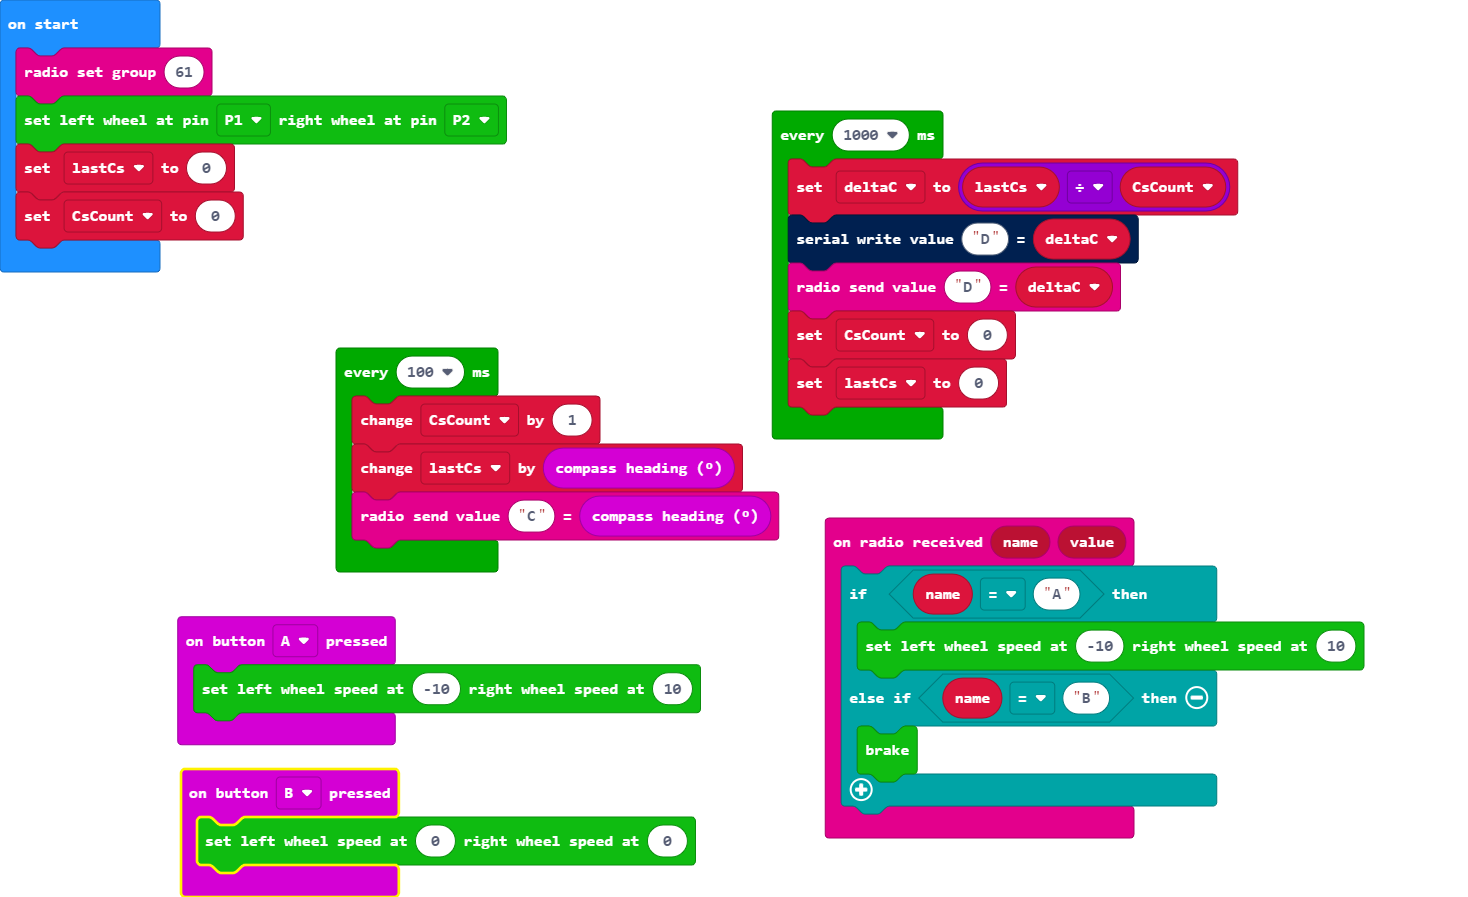
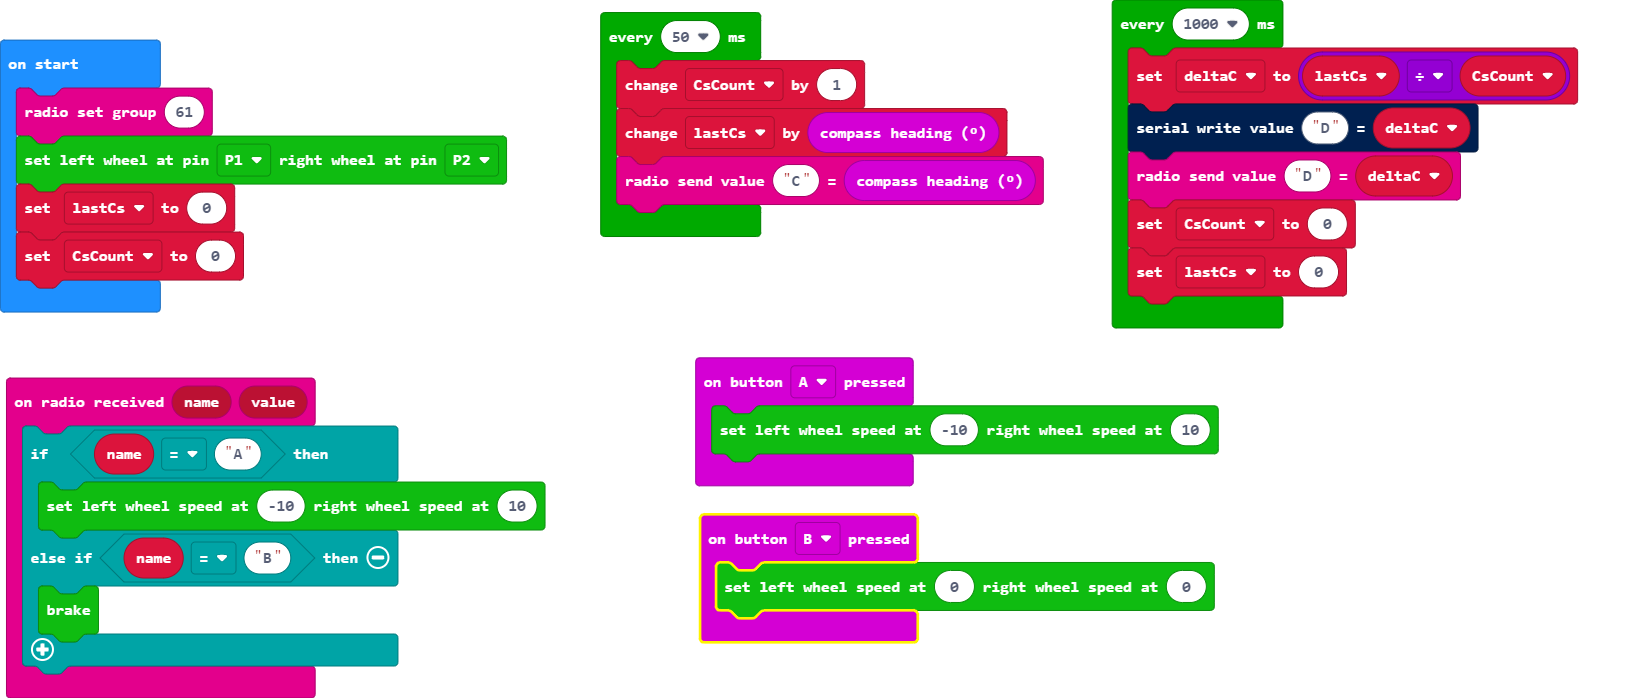
Compas Receiver v0.1

diff --git a/main.ts b/main.ts
@@ -23,7 +23,7 @@ loops.everyInterval(1000, function () {
     CsCount = 0
     lastCs = 0
 })
-loops.everyInterval(100, function () {
+loops.everyInterval(50, function () {
     CsCount += 1
     lastCs += input.compassHeading()
     radio.sendValue("C", input.compassHeading())
